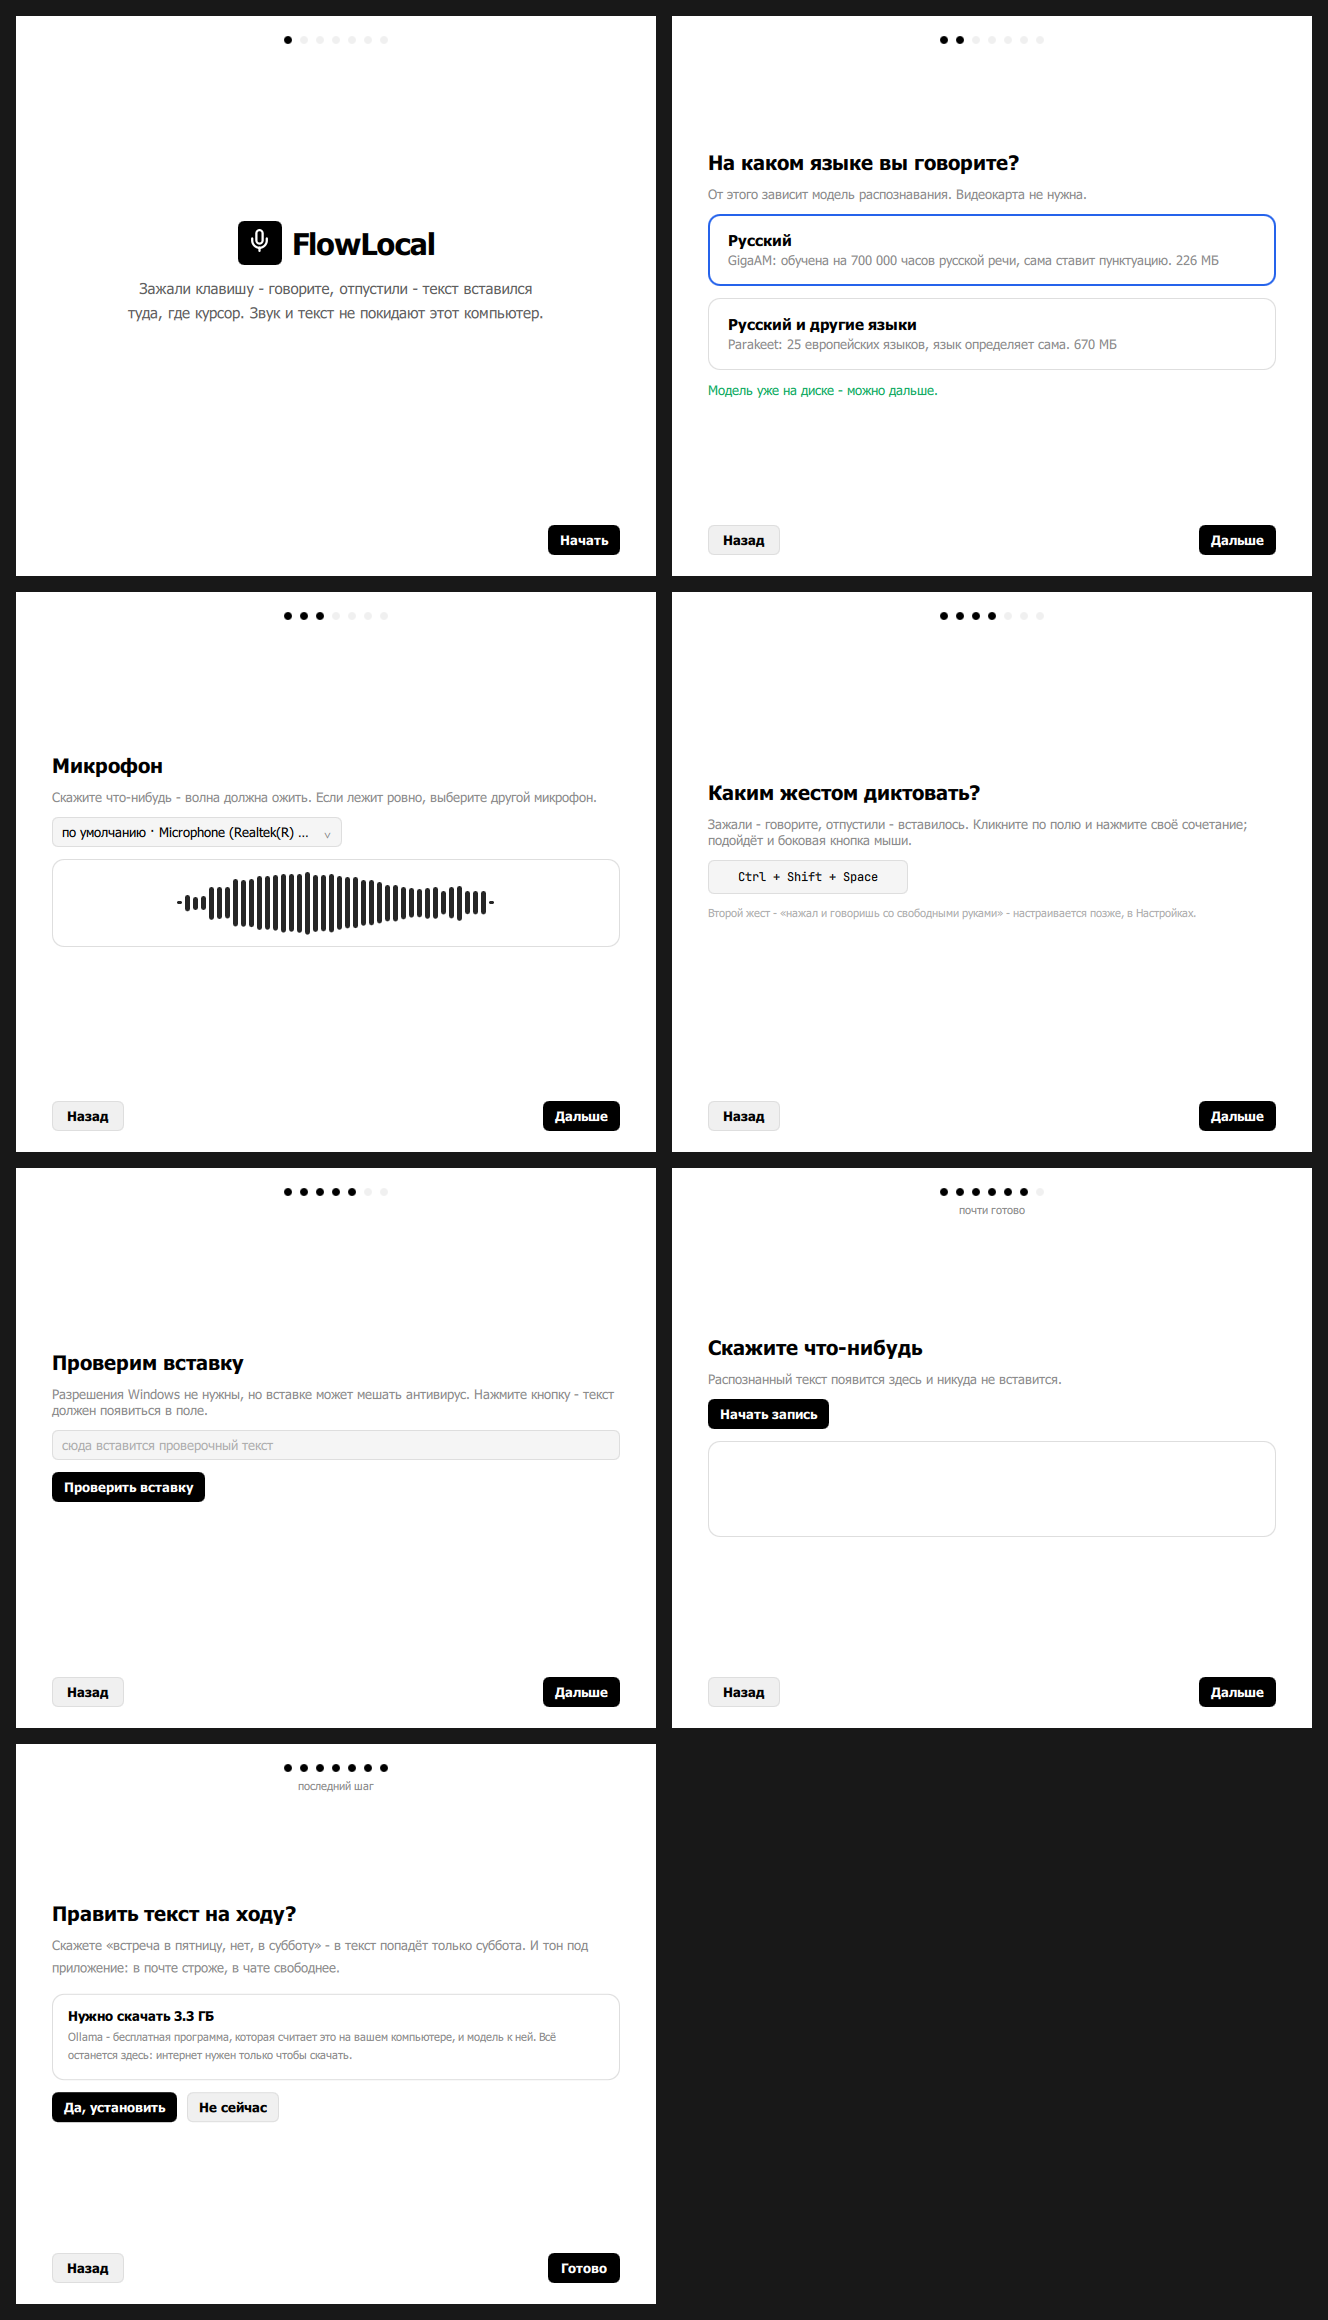
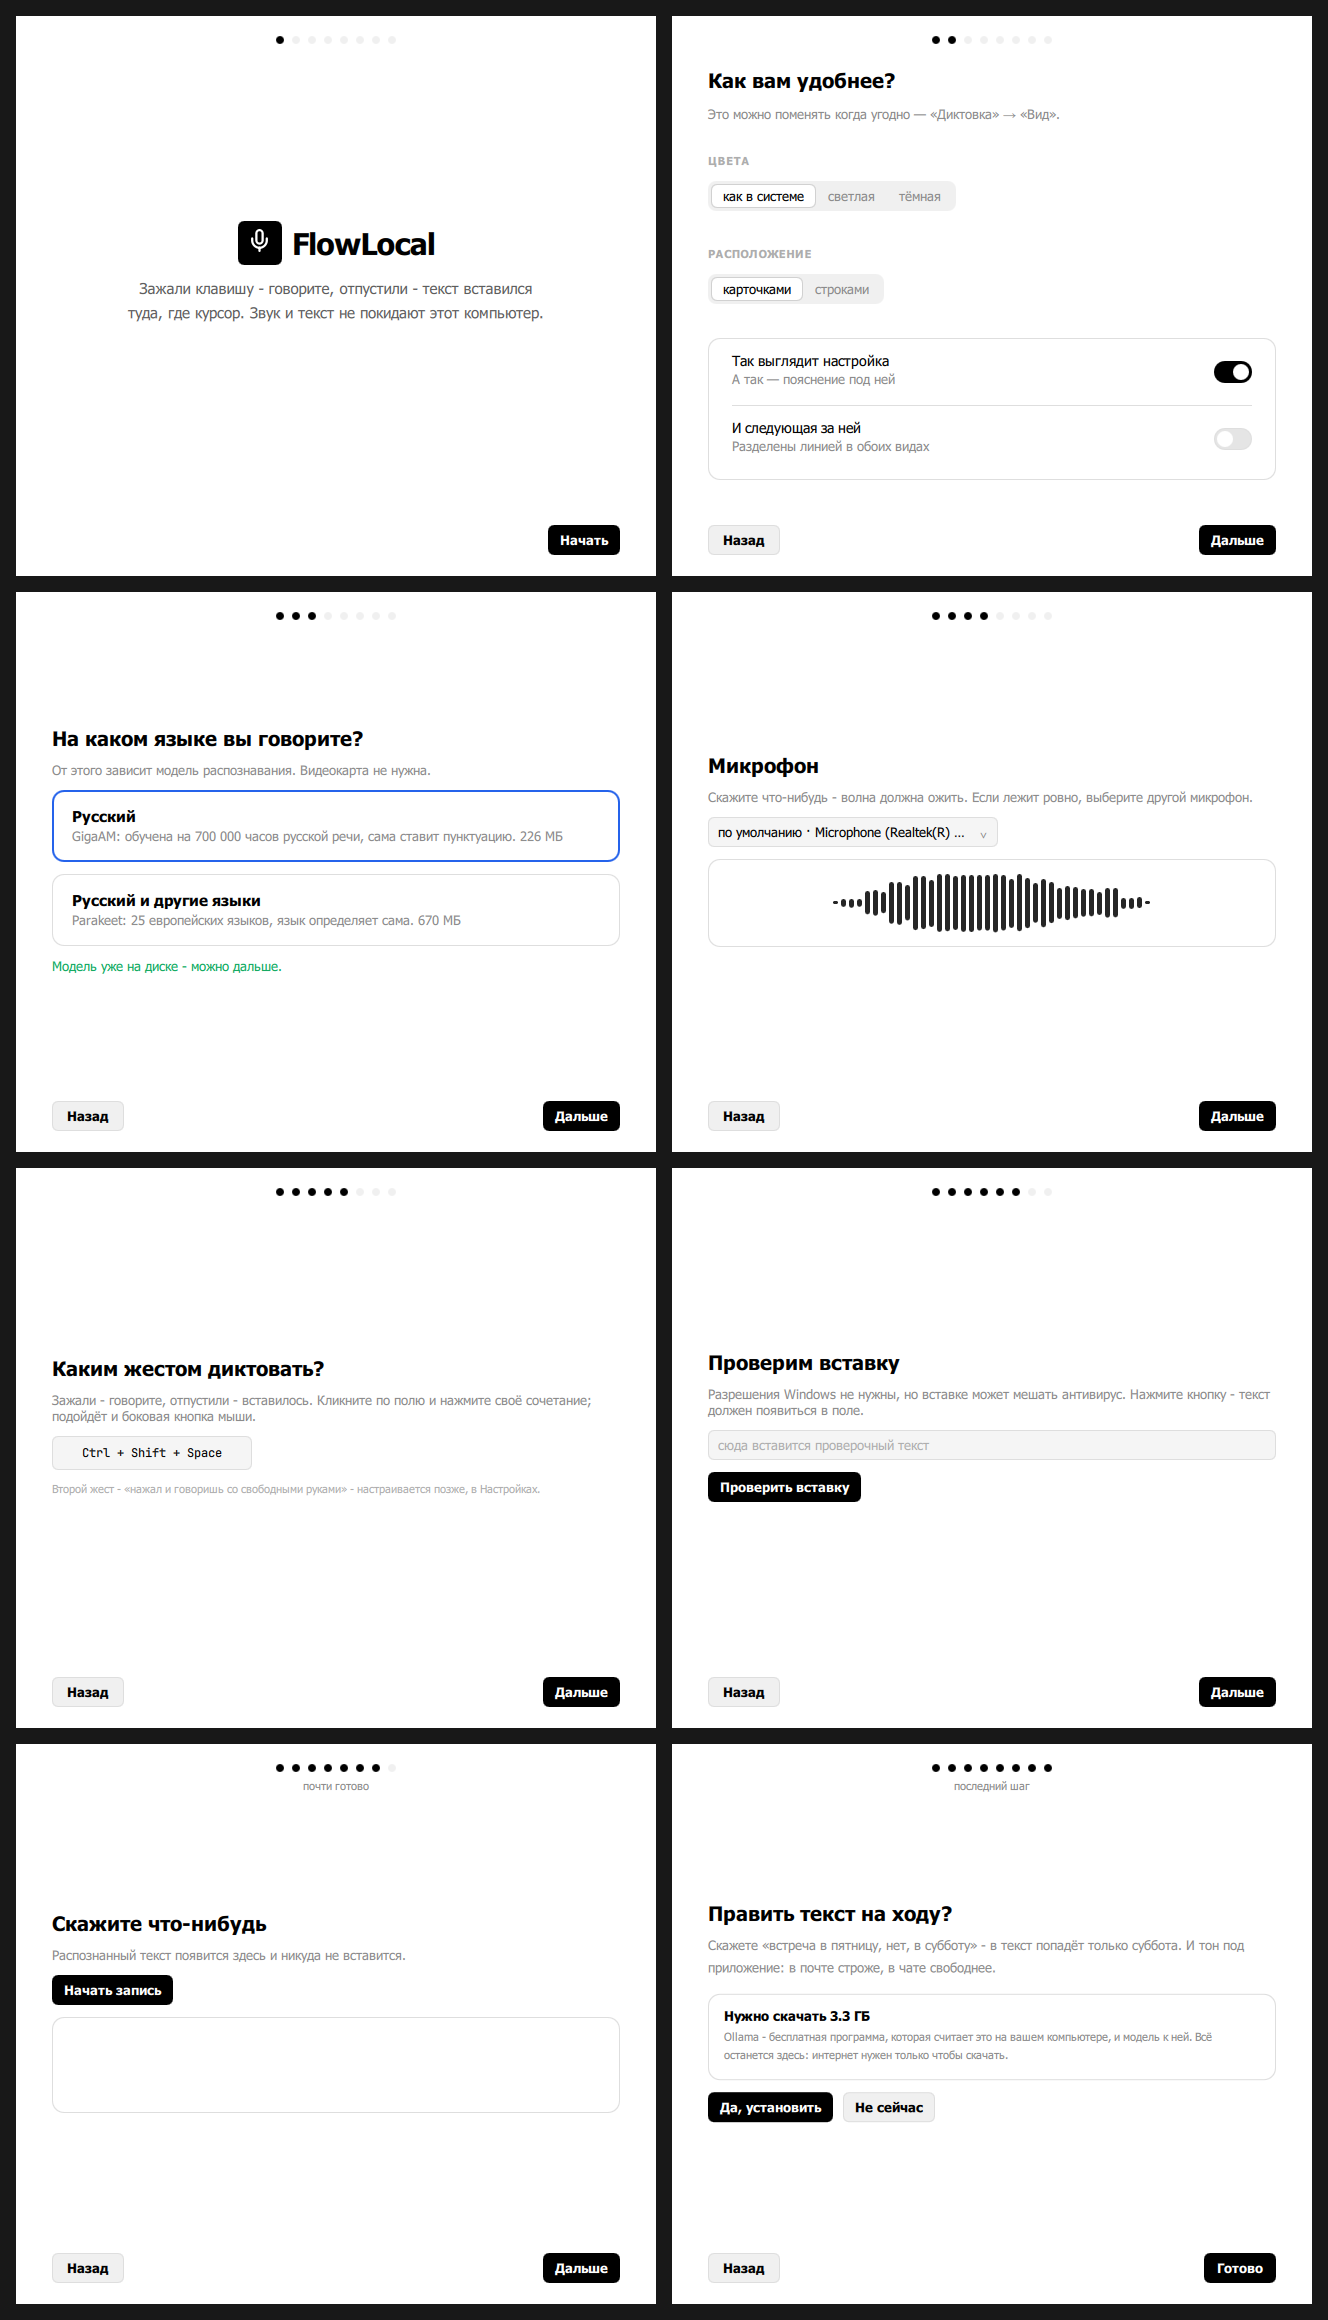
Версия 0.8.0: цвета и расположение спрашиваются сразу
Экран вторым в мастере, а не последним, и это решение: дальше человек проходит
ещё шесть шагов и видит их уже в своём оформлении. Спросить в конце значило бы
показать мастер дважды - один раз чужим, один раз своим.

Расположение - новая настройка, и устроена она одним компонентом. Card.qml
читает T.layout и в режиме «строками» снимает с себя фон, рамку и радиус;
разделительные линии уже умеет SettingRow. То есть вторая раскладка стоит двух
свойств, а не второго набора вёрстки.

Раскладка живёт в theme.py рядом с красками и приезжает в QML тем же токеном:
это оформление, а не поведение, и меняться должно на лету, тем же сигналом, без
пересборки окна.

Разницу показываем живым примером под переключателем. «Карточками» и «строками»
человеку не говорят ничего, пока он их не увидел, а описывать словами то, что
можно показать, - худший вид подписи.

Попутно: перенумерация экранов мастера сделана по порядку в файле, а не правкой
чисел. Первая попытка правила числа по одному и наехала сама на себя - два
экрана оказались с одним номером.

diff --git a/qml/Onboarding.qml b/qml/Onboarding.qml
@@ -8,7 +8,7 @@ Rectangle {
     id: wiz
     color: T.bg
     property int step: 0
-    readonly property int last: 6
+    readonly property int last: 7
 
     // Модель, которую выбрал шаг 2. По умолчанию - рекомендация для русского.
     property string chosenModel: OB.recommended()
@@ -103,9 +103,90 @@ Rectangle {
             }
         }
 
-        // === 1. Язык и модель ===
+        // === 1. Как это выглядит ===
+        //
+        // Вторым экраном намеренно: дальше человек проходит ещё пять шагов и
+        // видит их уже в своём оформлении. Спросить об этом в конце значило бы
+        // показать мастер дважды - один раз чужим, один раз своим.
         Column {
             visible: wiz.step === 1
+            anchors.verticalCenter: parent.verticalCenter
+            width: parent.width
+            spacing: 14
+
+            Text {
+                text: "Как вам удобнее?"
+                font.family: T.sans; font.pixelSize: T.tXl
+                font.weight: Font.DemiBold; color: T.text
+            }
+            Text {
+                width: parent.width
+                wrapMode: Text.WordWrap
+                text: "Это можно поменять когда угодно — «Диктовка» → «Вид»."
+                font.family: T.sans; font.pixelSize: T.tSm; color: T.textMuted
+            }
+
+            Item { width: 1; height: 4 }
+
+            Text {
+                text: "ЦВЕТА"
+                font.family: T.sans; font.pixelSize: T.t2xs
+                font.weight: Font.DemiBold; font.letterSpacing: 0.6
+                color: T.textFaint
+            }
+            Segmented {
+                options: [{label: "как в системе", value: "system"},
+                          {label: "светлая", value: "light"},
+                          {label: "тёмная", value: "dark"}]
+                value: B.get("theme") || "system"
+                onPicked: (v) => B.set("theme", v)
+            }
+
+            Item { width: 1; height: 8 }
+
+            Text {
+                text: "РАСПОЛОЖЕНИЕ"
+                font.family: T.sans; font.pixelSize: T.t2xs
+                font.weight: Font.DemiBold; font.letterSpacing: 0.6
+                color: T.textFaint
+            }
+            Segmented {
+                options: [{label: "карточками", value: "cards"},
+                          {label: "строками", value: "lines"}]
+                value: B.get("layout") || "cards"
+                onPicked: (v) => B.set("layout", v)
+            }
+
+            // Показываем разницу тут же, а не описываем словами: «карточками»
+            // и «строками» человеку ничего не говорят, пока он их не увидел.
+            Item { width: 1; height: 6 }
+            Card {
+                width: parent.width
+                Item {
+                    width: parent.width
+                    implicitHeight: demoCol.implicitHeight + 8
+                    Column {
+                        id: demoCol
+                        width: parent.width
+                        SettingRow {
+                            first: true
+                            title: "Так выглядит настройка"
+                            subtitle: "А так — пояснение под ней"
+                            Toggle { value: true }
+                        }
+                        SettingRow {
+                            title: "И следующая за ней"
+                            subtitle: "Разделены линией в обоих видах"
+                            Toggle { value: false }
+                        }
+                    }
+                }
+            }
+        }
+
+        // === 2. Язык и модель ===
+        Column {
+            visible: wiz.step === 2
             anchors.verticalCenter: parent.verticalCenter
             width: parent.width
             spacing: 12
@@ -171,10 +252,10 @@ Rectangle {
             }
         }
 
-        // === 2. Микрофон ===
+        // === 3. Микрофон ===
         Column {
             id: micStep
-            visible: wiz.step === 2
+            visible: wiz.step === 3
             anchors.verticalCenter: parent.verticalCenter
             width: parent.width
             spacing: 12
@@ -223,7 +304,7 @@ Rectangle {
             }
             Timer {
                 interval: 33
-                running: wiz.step === 2 && wiz.visible
+                running: wiz.step === 3 && wiz.visible
                 repeat: true
                 onTriggered: {
                     var fresh = OB.levels();
@@ -236,9 +317,9 @@ Rectangle {
             }
         }
 
-        // === 3. Сочетание ===
+        // === 4. Сочетание ===
         Column {
-            visible: wiz.step === 3
+            visible: wiz.step === 4
             anchors.verticalCenter: parent.verticalCenter
             width: parent.width
             spacing: 12
@@ -262,9 +343,9 @@ Rectangle {
             }
         }
 
-        // === 4. Проверка вставки ===
+        // === 5. Проверим вставку ===
         Column {
-            visible: wiz.step === 4
+            visible: wiz.step === 5
             anchors.verticalCenter: parent.verticalCenter
             width: parent.width
             spacing: 12
@@ -312,10 +393,10 @@ Rectangle {
             }
         }
 
-        // === 5. Проба ===
+        // === 6. Проба ===
         Column {
             id: trialStep
-            visible: wiz.step === 5
+            visible: wiz.step === 6
             anchors.verticalCenter: parent.verticalCenter
             width: parent.width
             spacing: 12
@@ -362,7 +443,7 @@ Rectangle {
             }
         }
 
-        // === 6. Правка текста ===
+        // === 7. Править текст ===
         //
         // Экран последний намеренно: сначала человек увидел, что диктовка
         // работает, и только потом ему предлагают её улучшить. Предлагать
@@ -370,7 +451,7 @@ Rectangle {
         // доверия авансом.
         Column {
             id: llmStep
-            visible: wiz.step === 6
+            visible: wiz.step === 7
             anchors.verticalCenter: parent.verticalCenter
             width: parent.width
             spacing: 12
@@ -553,16 +634,16 @@ Rectangle {
             anchors { right: parent.right; rightMargin: 36; verticalCenter: parent.verticalCenter }
             kind: "primary"
             label: wiz.step === 0 ? "Начать"
-                 : wiz.step === 1 ? (wiz.modelReady ? "Дальше"
+                 : wiz.step === 2 ? (wiz.modelReady ? "Дальше"
                                      : wiz.downloading ? "Скачивается…" : "Скачать модель")
                  : wiz.step === wiz.last ? "Готово"
                  : "Дальше"
             onClicked: {
-                if (wiz.step === 1 && !wiz.modelReady) {
+                if (wiz.step === 2 && !wiz.modelReady) {
                     if (!wiz.downloading) B.downloadModel(wiz.chosenModel);
                     return;
                 }
-                if (wiz.step === 1 && wiz.modelReady) B.setModel(wiz.chosenModel);
+                if (wiz.step === 2 && wiz.modelReady) B.setModel(wiz.chosenModel);
                 if (wiz.step === wiz.last) { OB.finish(); return; }  // finish() сам закроет окно
                 wiz.step += 1;
             }

diff --git a/qml/Card.qml b/qml/Card.qml
@@ -11,9 +11,19 @@ Rectangle {
     id: card
     default property alias content: body.data
 
-    color: T.paper
-    radius: T.radiusLg
-    border.width: 1
+    // Две раскладки, один компонент. «Карточки» - канон Korti: бумага,
+    // волосяная рамка, радиус 12. «Линии» - то же содержимое без коробки:
+    // рамка и фон снимаются, строки разделяются линиями сами (это уже умеет
+    // SettingRow). На длинных страницах вроде «Диктовки» рамок набиралось
+    // столько, что они спорили с содержимым.
+    //
+    // Читаем из T, а не из конфига напрямую: токены - один источник правды, и
+    // смена раскладки должна перерисовывать окно на лету, как смена темы.
+    readonly property bool lines: T.layout === "lines"
+
+    color: lines ? "transparent" : T.paper
+    radius: lines ? 0 : T.radiusLg
+    border.width: lines ? 0 : 1
     border.color: T.border
     implicitHeight: body.implicitHeight
 

diff --git a/qml/Settings.qml b/qml/Settings.qml
@@ -900,6 +900,17 @@ Rectangle {
                         }
                     }
                     SettingRow {
+                        title: "Расположение"
+                        subtitle: "Карточками — как сейчас. Строками — то же самое без рамок, "
+                                  + "плотнее и спокойнее"
+                        Segmented {
+                            options: [{label: "карточками", value: "cards"},
+                                      {label: "строками", value: "lines"}]
+                            value: B.get("layout") || "cards"
+                            onPicked: (v) => B.set("layout", v)
+                        }
+                    }
+                    SettingRow {
                         title: "Пилюля во время записи"
                         subtitle: "Полоска с волной: снизу экрана, сверху — или не показывать совсем"
                         Segmented {

diff --git a/theme.py b/theme.py
@@ -175,6 +175,19 @@ def _apply(p: dict) -> None:
     DANGER = p["danger"]          # ошибка / разрушительное
 
 
+_layout = "cards"
+
+
+def layout() -> str:
+    """Как расположены вещи: cards | lines. Один источник правды, как и краски."""
+    return _layout
+
+
+def set_layout(value: str) -> None:
+    global _layout
+    _layout = value if value in ("cards", "lines") else "cards"
+
+
 def mode() -> str:
     """Действующая тема: 'light' или 'dark'. Никогда не 'system'."""
     return _mode

diff --git a/app.py b/app.py
@@ -162,6 +162,7 @@ class App:
         # момент отрисовки, но иконка трея кэшируется, а окно настроек
         # запоминает фон канвы при создании.
         T.set_theme(str(self.cfg.get("theme") or "system"))
+        T.set_layout(str(self.cfg.get("layout") or "cards"))
         # QApplication, а не QGuiApplication: QSystemTrayIcon и QMenu живут в
         # QtWidgets. Окна при этом остаются на QML.
         self.qapp = QApplication(sys.argv)
@@ -917,7 +918,10 @@ class App:
         model_keys = ("model", "quantization", "device")
         if any(old.get(k) != new.get(k) for k in model_keys):
             self._reload_model_bg()
-        if old.get("theme") != new.get("theme"):
+        # Раскладка - такой же токен оформления, как краска: меняется тем же
+        # путём и применяется на лету, без пересборки окна.
+        if (old.get("theme") != new.get("theme")
+                or old.get("layout") != new.get("layout")):
             self._apply_theme()
         if old.get("overlay_position") != new.get("overlay_position"):
             self.overlay.set_position(str(new.get("overlay_position") or "bottom"))
@@ -936,6 +940,7 @@ class App:
         import icons
 
         mode = T.set_theme(str(self.cfg.get("theme") or "system"))
+        T.set_layout(str(self.cfg.get("layout") or "cards"))
         icons.retheme()
         self.overlay.retheme()
         self._set_tray_state(self._tray_state)

diff --git a/config.py b/config.py
@@ -31,6 +31,13 @@ DEFAULTS: dict = {
     "hotkey_command": "",
     "undo_hotkey": "",           # пусто = отмена последней вставки выключена
     "theme": "system",           # system | light | dark
+    # Как расположены вещи на страницах: cards | lines.
+    #   cards - карточки с волосяной рамкой (канон Korti, как было);
+    #   lines - те же строки без коробок, разделённые линиями. Плотнее и
+    #           спокойнее; на длинных страницах вроде «Диктовки» рамок было
+    #           столько, что они спорили с содержимым.
+    # Обе раскладки - один и тот же Card.qml, разница в двух свойствах.
+    "layout": "cards",
     "language": None,            # только для Whisper/Canary; GigaAM - русский и точка
     # GigaAM v3 RNN-T: 226 МБ, процессор, для русского втрое точнее Whisper.
     # Каталог моделей - в models.py, переезд описан в transcriber.py.

diff --git a/theme_qt.py b/theme_qt.py
@@ -65,6 +65,12 @@ class Tokens(QObject):
     def dark(self) -> bool:
         return T.mode() == "dark"
 
+    @Property(str, notify=changed)
+    def layout(self) -> str:
+        """cards | lines. Здесь, а не в конфиге напрямую: раскладка - такой же
+        токен оформления, как краска, и меняться должна тем же сигналом."""
+        return T.layout()
+
     # ---------- краски ----------
 
     @Property(QColor, notify=changed)

diff --git a/version.py b/version.py
@@ -9,7 +9,7 @@ pyproject рядом нет, а версию надо знать и обновл
 обновлятор начнёт предлагать «обновиться» на то, что уже стоит.
 """
 
-__version__ = "0.7.1"
+__version__ = "0.8.0"
 
 # Кто раздаёт обновления. Пусто - проверка обновлений выключена.
 GITHUB_REPO = "romankandeevy/flowlocal"

diff --git a/CHANGELOG.md b/CHANGELOG.md
@@ -19,6 +19,19 @@
 правка поверх свежей минорной - `0.4.1`, а правка уже **выпущенной** версии -
 четвёртым числом, `0.4.1.1`.
 
+## 0.8.0 — 18.07.2026
+
+Программа подстраивается под вас с первого запуска.
+
+- В мастере появился второй экран: цвета и расположение. Спрашиваем сразу, а не
+  в конце, — дальше вы проходите остальные шаги уже в своём оформлении.
+- Расположение: «карточками» — как было, каждая настройка в рамке. «Строками» —
+  то же самое без рамок, разделено линиями: плотнее и спокойнее. На длинных
+  страницах рамок набиралось столько, что они спорили с содержимым.
+- Разницу видно прямо на экране выбора: под переключателями живой пример, а не
+  описание словами.
+- То же и в настройках: «Диктовка» → «Вид» → «Расположение».
+
 ## 0.7.1 — 18.07.2026
 
 Знакомство с программой стало короче на вид и понятнее в конце.